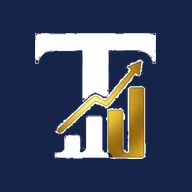
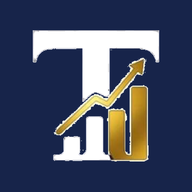
Refaz os ícones do app com bordas limpas (#1)
* Mostra o convite de instalar o app também na tela de login

O convite "Instale o app da Trilhar" só aparecia nas telas do cliente
depois de entrar. Agora aparece também no login, com as mesmas regras:
só Android/Chrome, nunca se o app já está instalado e some por 14 dias
se a pessoa dispensar.

Claude-Session: https://claude.ai/code/session_01SMCD1NyNFnLpg6abYjPmTz

* Revert "Mostra o convite de instalar o app também na tela de login"

This reverts commit d8961328a0aa72057ad5dfc64c150f8d8cfede6f.

* Refaz os ícones do app com bordas limpas

Os ícones (192, 512, maskable e o do iPhone) tinham o T branco recortado
com bordas serrilhadas e contorno cinza, e a logo aparecia pixelada ao
abrir o app. Agora são gerados a partir da logo original com bordas
suaves, centralizados, sem pontos soltos. Versão do service worker
atualizada para o celular baixar os ícones novos.

Claude-Session: https://claude.ai/code/session_01SMCD1NyNFnLpg6abYjPmTz

---------

Changed region(s): [[0.1562, 0.1562, 0.8438, 0.8438], [0.4062, 0.5, 0.4688, 0.5312], [0.4062, 0.3125, 0.4375, 0.3438]]

diff --git a/sw.js b/sw.js
@@ -10,7 +10,7 @@
      atualiza em segundo plano pra próxima abertura.
    - Nenhum dado de cliente é guardado: os dados vêm do Supabase (não passa
      por aqui) e as páginas HTML não são guardadas. */
-const VERSAO = "trilhar-v1";
+const VERSAO = "trilhar-v2";
 const OFFLINE_URL = "/offline.html";
 const PRE_CACHE = [OFFLINE_URL, "/img/icon-192.png"];
 
